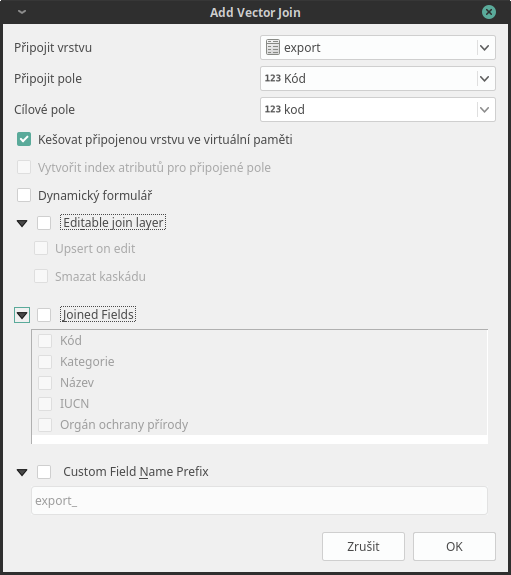
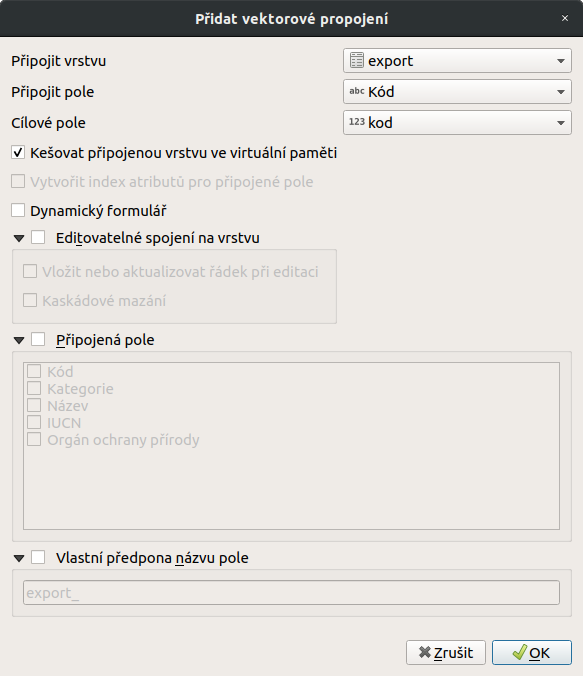
upadte:3_10 join

Changed region(s): [[0.0, 0.0, 1.0, 1.0], [0.2348, 0.7096, 0.3229, 0.7687], [0.1468, 0.7391, 0.1761, 0.7687]]

diff --git a/vektorova_data/join.rst b/vektorova_data/join.rst
@@ -129,18 +129,18 @@ Další volitelné nastavení
   pro rychlejší práci s daty
 - |checkbox| :item:`Dynamický formulář` - automatické načtení, v případě změn
   hodnot v "Cílovém poli"
-- |checkbox| :item:`Editable join layer` - umožňuje editovat atributy připojené
+- |checkbox| :item:`Editovatelné spojení na vrstvu` - umožňuje editovat atributy připojené
   vrstvy z atributové tabulky cílové vrstvy. Obě vrstvy musí být v režimu
   editace
 
-    - |checkbox| :item:`Upsert on edit` - při vytvoření nového prvku v cílové
+    - |checkbox| :item:`Vložit nebo aktualizovat řádek při editaci` - při vytvoření nového prvku v cílové
       vrstvě se automaticky vytvoří záznam v připojené vrstvě
-    - |checkbox| :item:`Delete cascade` - při smazání prvku v cílové vrstvě se
+    - |checkbox| :item:`Kaskádové mazání` - při smazání prvku v cílové vrstvě se
       automaticky smaže záznam v připojené vrstvě
 
-- |checkbox| :item:`Joined Fields` - lze zvolit konkrétní atributy pro
+- |checkbox| :item:`Připojená pole` - lze zvolit konkrétní atributy pro
   připojení
-- |checkbox| :item:`Custom Field Name Prefix` - zde můžeme zvolit vlastní
+- |checkbox| :item:`Vlastní předpona názvu pole` - zde můžeme zvolit vlastní
   předponu názvů připojených atributů (jejich sloupců)
 
 Po přidání se připojení a jeho nastavení objeví v seznamu. Pomocí tlačítek lze
